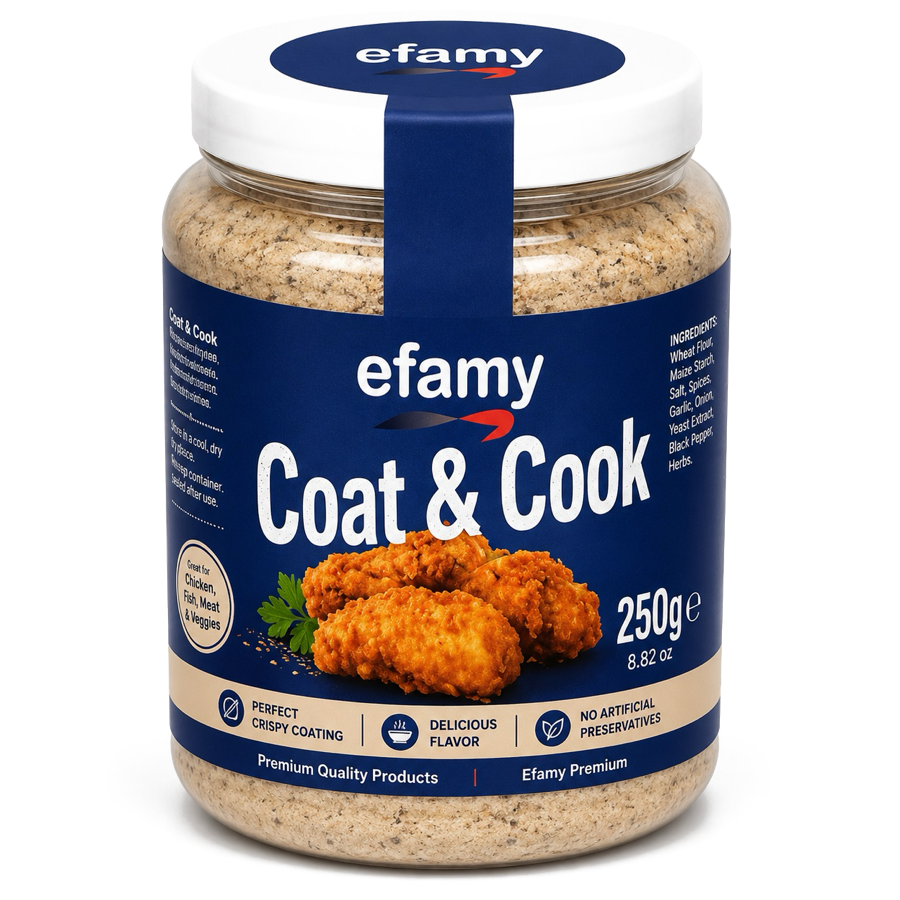
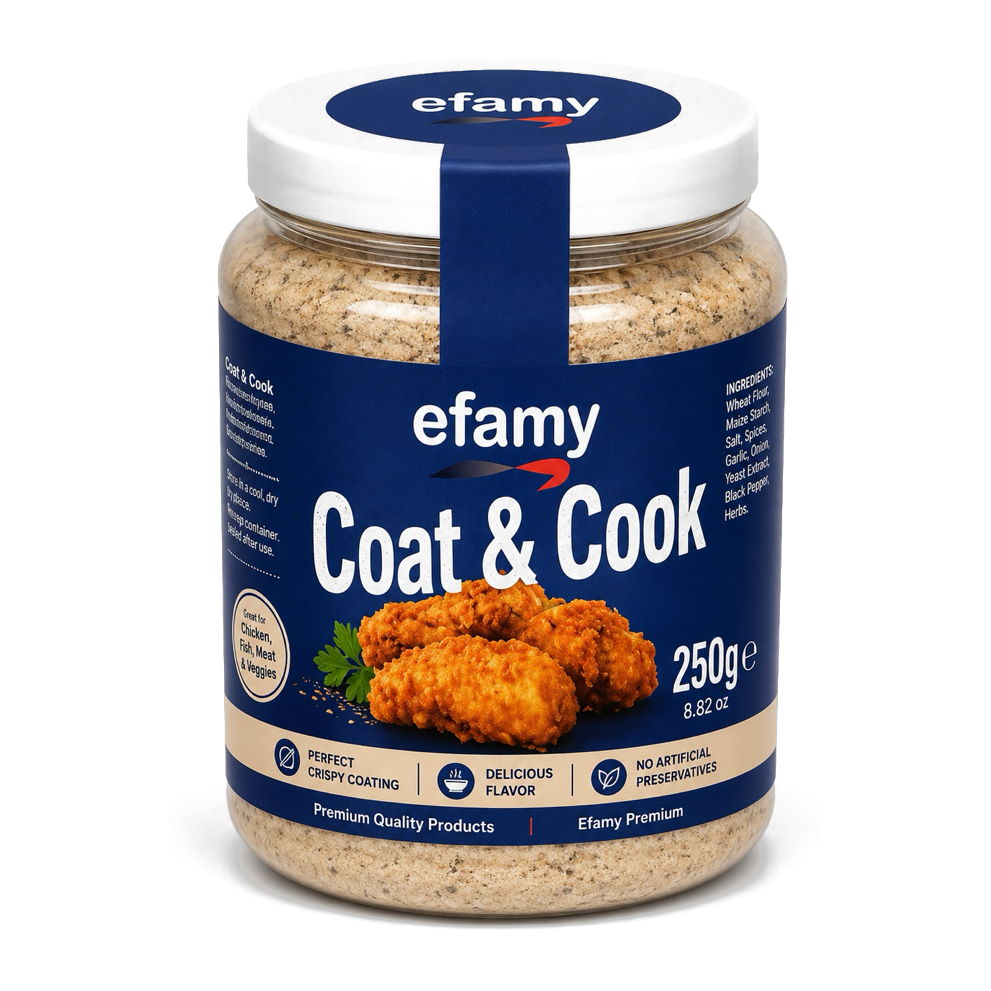
feat: frame every product cutout so the jars render at one size
Cards draw the cutouts object-contain in a square frame, so the jar's height as
a share of the image is what lands on screen. The sources ran from 67% to 97%,
which read as jars of wildly different sizes on the same row.

Each cutout is now pasted, unscaled, onto a square canvas sized so the jar fills
88% of it, measured 85.6-87.9% back. Nothing is resampled, so no detail is lost.

The seasoning jars and every oil bottle were opaque near-white rather than
transparent, with a soft grey contact shadow. Both are keyed out: a flood inward
from the border over near-white only, so white on the labels survives, then a
second permissive pass confined to the base of the silhouette to take the
shadow without eating the white lids. Recorded dimensions now come from the
files, several of which were already wrong.

Shape is still not uniform: the range is a mix of round tapered and square
jars, which no framing can fix.

diff --git a/src/lib/catalogue-data.ts b/src/lib/catalogue-data.ts
@@ -42,14 +42,20 @@ function sauceSizes(
   ];
 }
 
-/** A jar photographed for one strength, where mild and hot look different. */
-function jar(
-  file: string,
-  alt: string,
-  width = 700,
-  height = 900,
-): ProductImage {
-  return { url: `/products/cutout/${file}.png`, alt, width, height };
+/**
+ * A jar photographed for one strength, where mild and hot look different.
+ *
+ * Cutouts are square: each is framed so the jar fills the same share of the
+ * canvas, which is what makes the jars render at a matching size in the
+ * object-contain card frame. `side` is the canvas, not the jar.
+ */
+function jar(file: string, alt: string, side: number): ProductImage {
+  return {
+    url: `/products/cutout/${file}.png`,
+    alt,
+    width: side,
+    height: side,
+  };
 }
 
 const BEANS = (heat: Heat, image?: ProductImage) =>
@@ -71,8 +77,8 @@ export const categories: ProductCategory[] = [
     image: {
       url: "/products/cutout/chicken-chilli-sauce-hot.png",
       alt: "Jar of Efamy chicken chilli sauce, hot",
-      width: 631,
-      height: 900,
+      width: 906,
+      height: 906,
     },
     productCount: 7,
   },
@@ -85,8 +91,8 @@ export const categories: ProductCategory[] = [
     image: {
       url: "/products/cutout/all-purpose-seasoning-mix.png",
       alt: "Jar of Efamy all purpose seasoning mix",
-      width: 1086,
-      height: 1448,
+      width: 1093,
+      height: 1093,
     },
     productCount: 3,
   },
@@ -99,8 +105,8 @@ export const categories: ProductCategory[] = [
     image: {
       url: "/products/oils/beef-chilli-oil.png",
       alt: "Bottle of Efamy beef flavoured chilli oil",
-      width: 1086,
-      height: 1448,
+      width: 1403,
+      height: 1403,
     },
     productCount: 7,
   },
@@ -126,8 +132,8 @@ export const products: Product[] = [
     image: {
       url: "/products/cutout/beans-chilli-sauce-mild.png",
       alt: "Jar of Efamy beans chilli sauce with a dark green label",
-      width: 720,
-      height: 900,
+      width: 817,
+      height: 817,
     },
     storage: STORAGE_SAUCE,
     servingSuggestions: ["Rice and stew", "Jollof", "Grilled vegetables"],
@@ -143,7 +149,7 @@ export const products: Product[] = [
         jar(
           "beef-chilli-sauce-mild",
           "Jar of Efamy beef chilli sauce, mild",
-          675,
+          783,
         ),
       ),
       ...MEAT(
@@ -151,7 +157,7 @@ export const products: Product[] = [
         jar(
           "beef-chilli-sauce-hot",
           "Jar of Efamy beef chilli sauce, hot",
-          675,
+          703,
         ),
       ),
     ],
@@ -162,8 +168,8 @@ export const products: Product[] = [
     image: {
       url: "/products/cutout/beef-chilli-sauce-hot.png",
       alt: "Jar of Efamy beef chilli sauce with a burgundy label",
-      width: 700,
-      height: 900,
+      width: 703,
+      height: 703,
     },
     storage: STORAGE_SAUCE,
     servingSuggestions: ["Rice and stew", "Jollof", "Chips"],
@@ -181,8 +187,8 @@ export const products: Product[] = [
     image: {
       url: "/products/cutout/chicken-chilli-sauce-hot.png",
       alt: "Jar of Efamy chicken chilli sauce with an orange label",
-      width: 700,
-      height: 900,
+      width: 906,
+      height: 906,
     },
     storage: STORAGE_SAUCE,
     servingSuggestions: ["Rice", "Fried plantain", "Yam"],
@@ -198,7 +204,7 @@ export const products: Product[] = [
         jar(
           "fish-chilli-sauce-mild",
           "Jar of Efamy fish chilli sauce, mild",
-          675,
+          768,
         ),
       ),
       ...MEAT(
@@ -206,7 +212,7 @@ export const products: Product[] = [
         jar(
           "fish-chilli-sauce-hot",
           "Jar of Efamy fish chilli sauce, hot",
-          675,
+          686,
         ),
       ),
     ],
@@ -218,8 +224,8 @@ export const products: Product[] = [
     image: {
       url: "/products/cutout/fish-chilli-sauce-hot.png",
       alt: "Jar of Efamy fish chilli sauce with a green label",
-      width: 700,
-      height: 900,
+      width: 686,
+      height: 686,
     },
     storage: STORAGE_SAUCE,
     servingSuggestions: ["Kenkey", "Waakye", "Rice"],
@@ -246,8 +252,8 @@ export const products: Product[] = [
     image: {
       url: "/products/cutout/pork-chilli-sauce-hot.png",
       alt: "Jar of Efamy pork chilli sauce with a pink label",
-      width: 793,
-      height: 900,
+      width: 920,
+      height: 920,
     },
     storage: STORAGE_SAUCE,
     servingSuggestions: ["Rice", "Fried plantain", "Grilled pork"],
@@ -265,8 +271,8 @@ export const products: Product[] = [
     image: {
       url: "/products/cutout/goat-chilli-sauce.png",
       alt: "Jar of Efamy goat chilli sauce",
-      width: 1254,
-      height: 1254,
+      width: 1068,
+      height: 1068,
     },
     storage: STORAGE_SAUCE,
     servingSuggestions: ["Rice", "Yam", "Kenkey"],
@@ -284,8 +290,8 @@ export const products: Product[] = [
     image: {
       url: "/products/cutout/turkey-chilli-sauce.png",
       alt: "Jar of Efamy turkey chilli sauce",
-      width: 1254,
-      height: 1254,
+      width: 1000,
+      height: 1000,
     },
     storage: STORAGE_SAUCE,
     servingSuggestions: ["Rice", "Pasta", "Chips"],
@@ -303,8 +309,8 @@ export const products: Product[] = [
     image: {
       url: "/products/oils/beans-chilli-oil.png",
       alt: "Bottle of Efamy beans flavoured chilli oil",
-      width: 1086,
-      height: 1448,
+      width: 1376,
+      height: 1376,
     },
     storage: STORAGE_DRY,
     category: category.oils,
@@ -321,8 +327,8 @@ export const products: Product[] = [
     image: {
       url: "/products/oils/beef-chilli-oil.png",
       alt: "Bottle of Efamy beef flavoured chilli oil",
-      width: 1086,
-      height: 1448,
+      width: 1403,
+      height: 1403,
     },
     storage: STORAGE_DRY,
     category: category.oils,
@@ -339,8 +345,8 @@ export const products: Product[] = [
     image: {
       url: "/products/oils/chicken-chilli-oil.png",
       alt: "Bottle of Efamy chicken flavoured chilli oil",
-      width: 1086,
-      height: 1448,
+      width: 1222,
+      height: 1222,
     },
     storage: STORAGE_DRY,
     category: category.oils,
@@ -358,8 +364,8 @@ export const products: Product[] = [
     image: {
       url: "/products/oils/fish-chilli-oil.png",
       alt: "Bottle of Efamy fish flavoured chilli oil",
-      width: 1086,
-      height: 1448,
+      width: 1243,
+      height: 1243,
     },
     storage: STORAGE_DRY,
     category: category.oils,
@@ -376,8 +382,8 @@ export const products: Product[] = [
     image: {
       url: "/products/oils/goat-chilli-oil.png",
       alt: "Bottle of Efamy goat flavoured chilli oil",
-      width: 1086,
-      height: 1448,
+      width: 1362,
+      height: 1362,
     },
     storage: STORAGE_DRY,
     category: category.oils,
@@ -394,8 +400,8 @@ export const products: Product[] = [
     image: {
       url: "/products/oils/pork-chilli-oil.png",
       alt: "Bottle of Efamy pork flavoured chilli oil",
-      width: 1086,
-      height: 1448,
+      width: 1260,
+      height: 1260,
     },
     storage: STORAGE_DRY,
     category: category.oils,
@@ -412,8 +418,8 @@ export const products: Product[] = [
     image: {
       url: "/products/oils/turkey-chilli-oil.png",
       alt: "Bottle of Efamy turkey flavoured chilli oil",
-      width: 1086,
-      height: 1448,
+      width: 1231,
+      height: 1231,
     },
     storage: STORAGE_DRY,
     category: category.oils,
@@ -430,15 +436,15 @@ export const products: Product[] = [
     image: {
       url: "/products/cutout/all-purpose-seasoning-mix.png",
       alt: "Jar of Efamy all purpose seasoning mix, original",
-      width: 1086,
-      height: 1448,
+      width: 1093,
+      height: 1093,
     },
     images: [
       {
         url: "/products/cutout/all-purpose-seasoning-sample-pouch.png",
         alt: "Free sample pouch of Efamy all purpose seasoning mix",
-        width: 900,
-        height: 675,
+        width: 850,
+        height: 850,
       },
     ],
     storage: STORAGE_DRY,
@@ -456,8 +462,8 @@ export const products: Product[] = [
     image: {
       url: "/products/cutout/kelewele-seasoning-mix.png",
       alt: "Bottle of Efamy kelewele seasoning mix",
-      width: 1254,
-      height: 1254,
+      width: 1162,
+      height: 1162,
     },
     storage: STORAGE_DRY,
     servingSuggestions: ["Spiced fried plantain"],
@@ -487,8 +493,8 @@ export const products: Product[] = [
     image: {
       url: "/products/cutout/coat-and-cook.png",
       alt: "Jar of Efamy Coat & Cook seasoned coating mix, 250g",
-      width: 900,
-      height: 900,
+      width: 991,
+      height: 991,
     },
     images: [
       {
